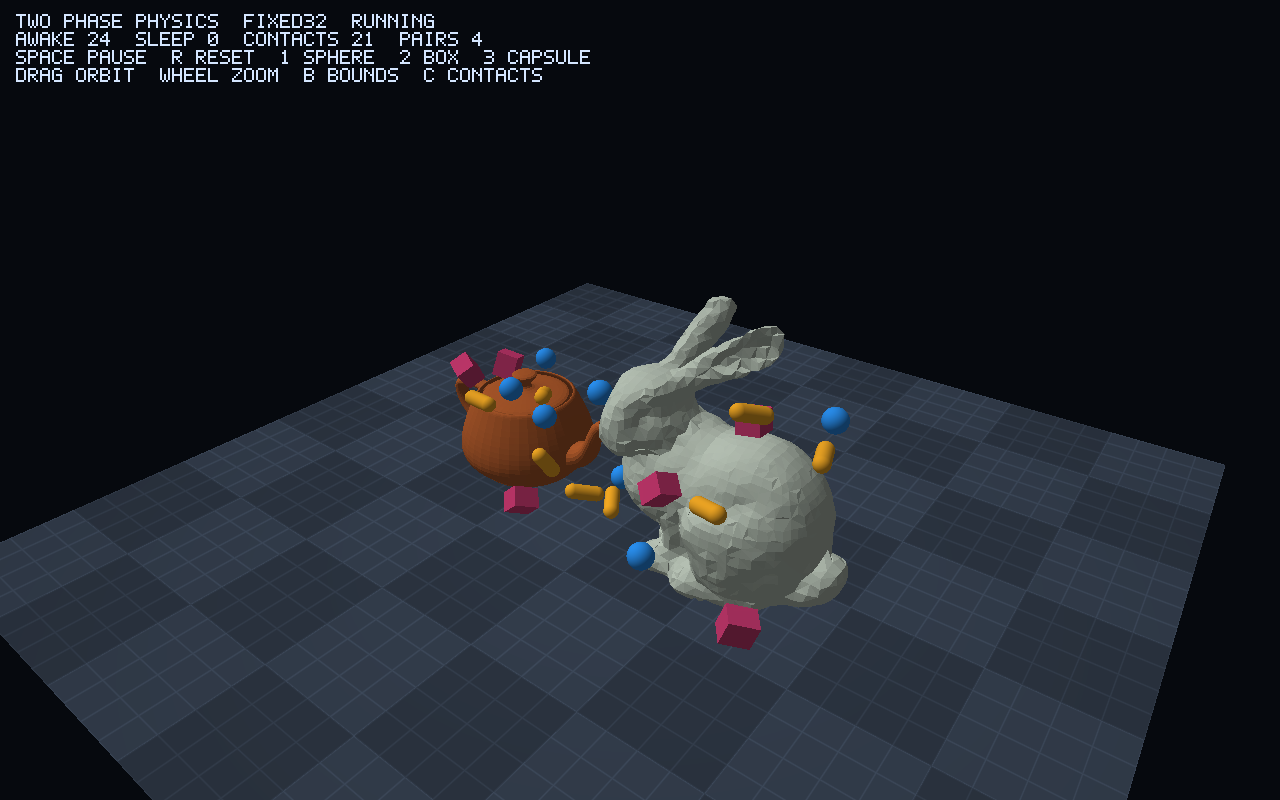
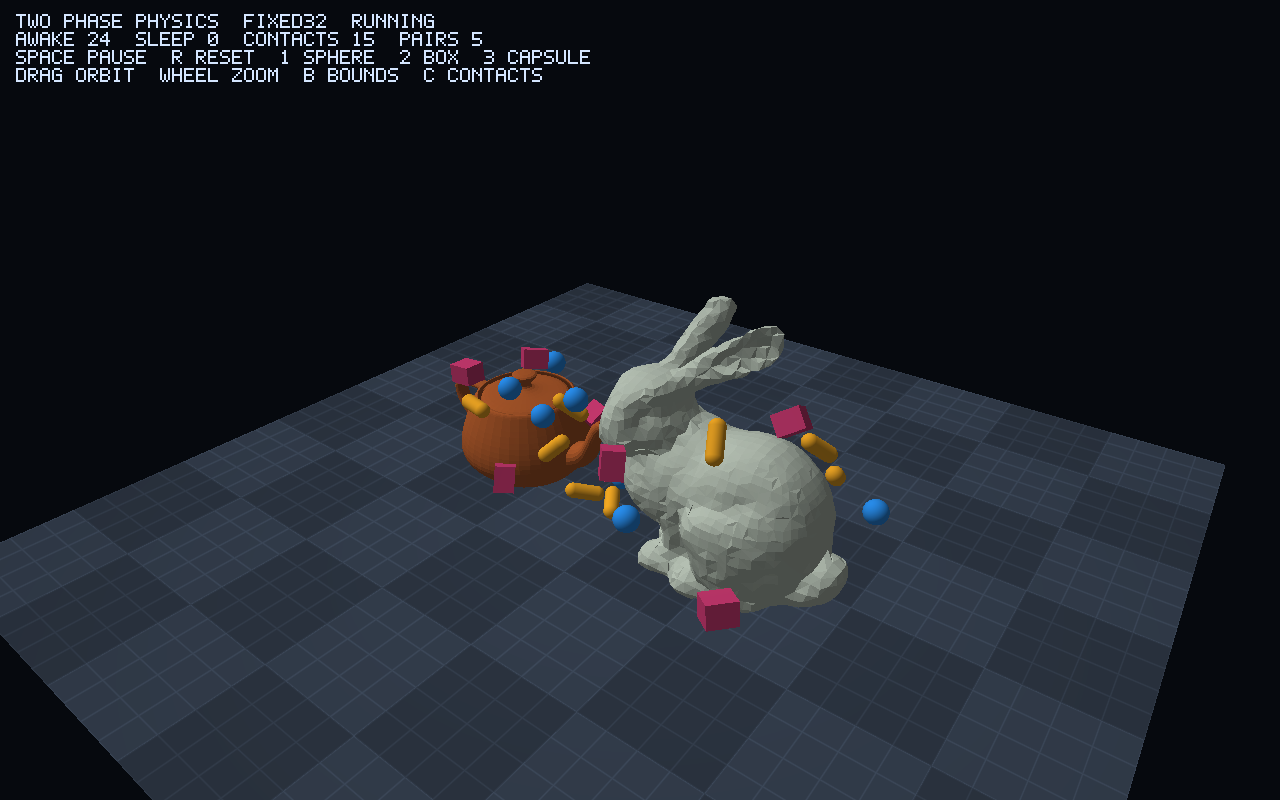
Refresh the physics scene screenshot from the current S15.16 demo
The guide's screenshot predates the deterministic contact ordering and the
static-supported sleep policy. Capture the current example itself before
promoting its image in the README, keeping the existing shared asset path.

Build the optional SDL2/glow demo and capture the default camera at frame 120,
after 240 S15.16 simulation ticks, using SDL's offscreen driver. Encode the
1280x800 RGB readback as PNG with FFmpeg. Document the exact conversion command,
capture point and SDL/Mesa context so the screenshot can be reproduced without
an image generation or editing step. The physics and renderer are unchanged.

Validation: offline release build with physics-demo; actual 120-frame run in
OpenGL ES 3.2 Mesa 26.0.8 with 24 awake bodies and 15 contacts; successful render
and capture error checks; visual inspection of the generated image; identical
decoded RGB SHA-256 for PPM and PNG, proving lossless conversion; git diff
--check. Cargo artifacts are cleaned before and immediately after this commit.

diff --git a/docs/physics.md b/docs/physics.md
@@ -60,13 +60,18 @@ ticks per frame and disables vsync, allowing reproducible driver smoke tests:
 cargo build --release --features physics-demo --example physics_demo
 SDL_VIDEODRIVER=offscreen target/release/examples/physics_demo \
   --scalar fixed32 --frames 120 --hidden --capture /tmp/physics.ppm
+ffmpeg -hide_banner -loglevel error -y -i /tmp/physics.ppm \
+  -frames:v 1 -update 1 -compression_level 9 docs/images/physics-demo.png
 ```
 
 The offscreen driver depends on the local SDL/EGL installation. Capture reads
 the final back buffer before swapping, using GLES' supported RGBA byte format,
 checks GL errors, and writes a top-down RGB PPM file. `--capture` applies when
 the `--frames` limit is reached. The committed screenshot is from this real
-fixed-point render path, converted from PPM to PNG with FFmpeg.
+S15.16 render path at frame 120 (240 simulation ticks), using the default camera
+and a 1280 × 800 drawable. It was refreshed after the contact-ordering and sleep
+changes, with SDL2 2.32.10 and Mesa 26.0.8's OpenGL ES 3.2 context. FFmpeg encodes
+the captured RGB pixels as lossless PNG; the command above reproduces the asset.
 
 ## Tick and ownership contracts
 
